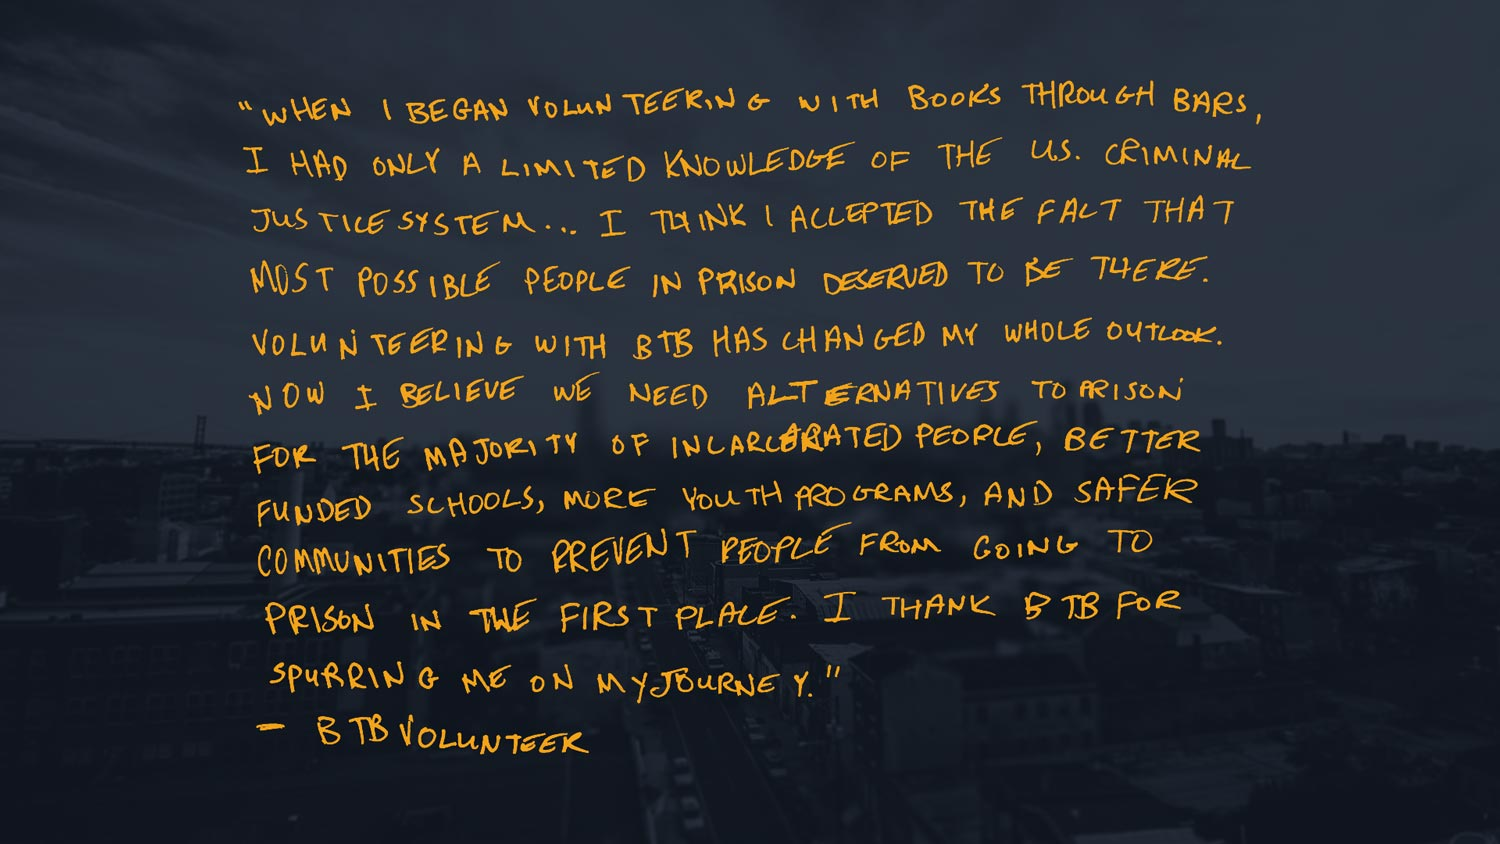
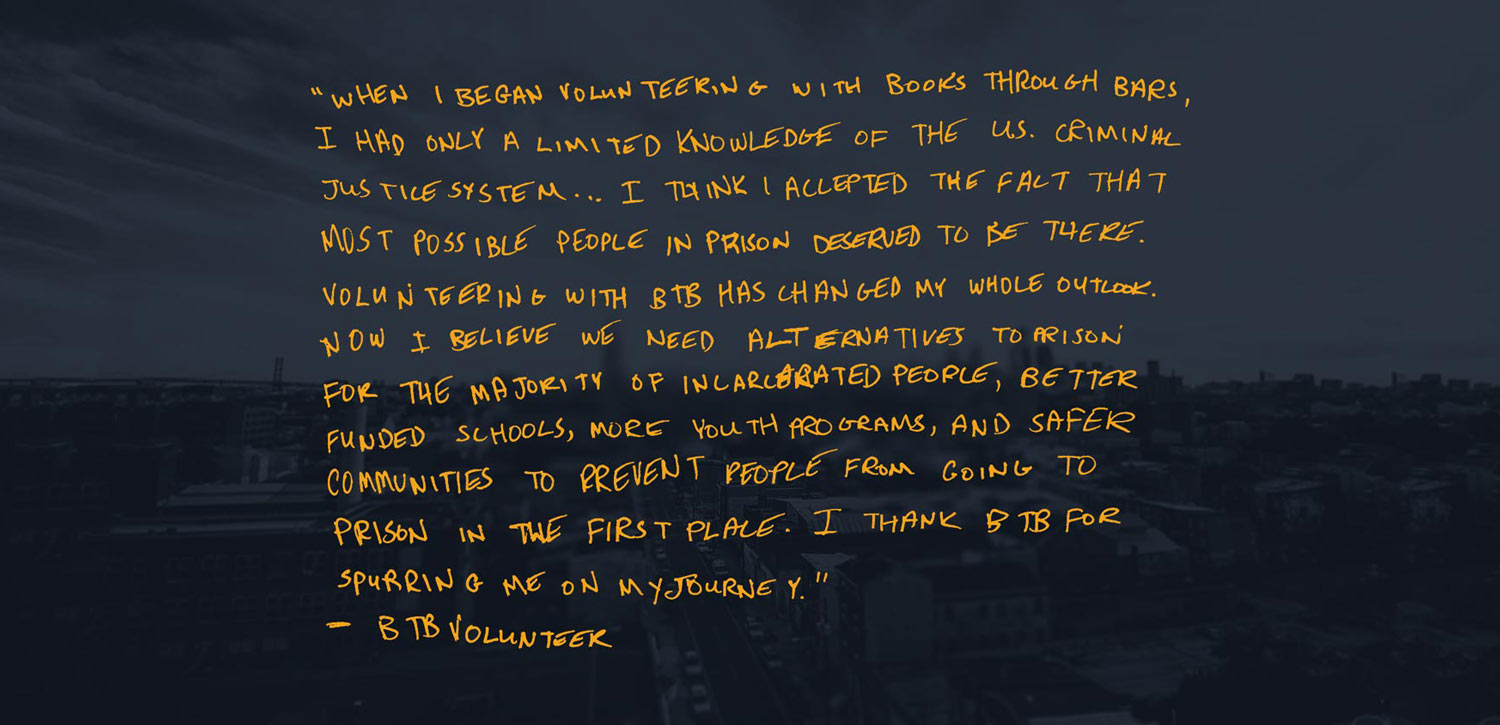
refactor(css): finish styling blog post

Changed region(s): [[0.1533, 0.091, 0.828, 0.7586], [0.184, 0.789, 0.552, 0.8497], [0.1533, 0.8497, 0.3987, 0.9103]]

diff --git a/whydothis.html b/whydothis.html
@@ -21,8 +21,8 @@ layout: default
     </div>
 </main>
 
-<img class="flex-img small-show" src="images/btb-testimonial-1-sm.jpg">
-<img class="flex-img big-show" src="images/btb-testimonial-1-l.jpg">
+<img class="flex-img small-show" src="images/btb-testimonial-5.jpg">
+<img class="flex-img big-show" src="images/btb-testimonial-5.jpg">
 
 <main>
     <div class="contain-width">
